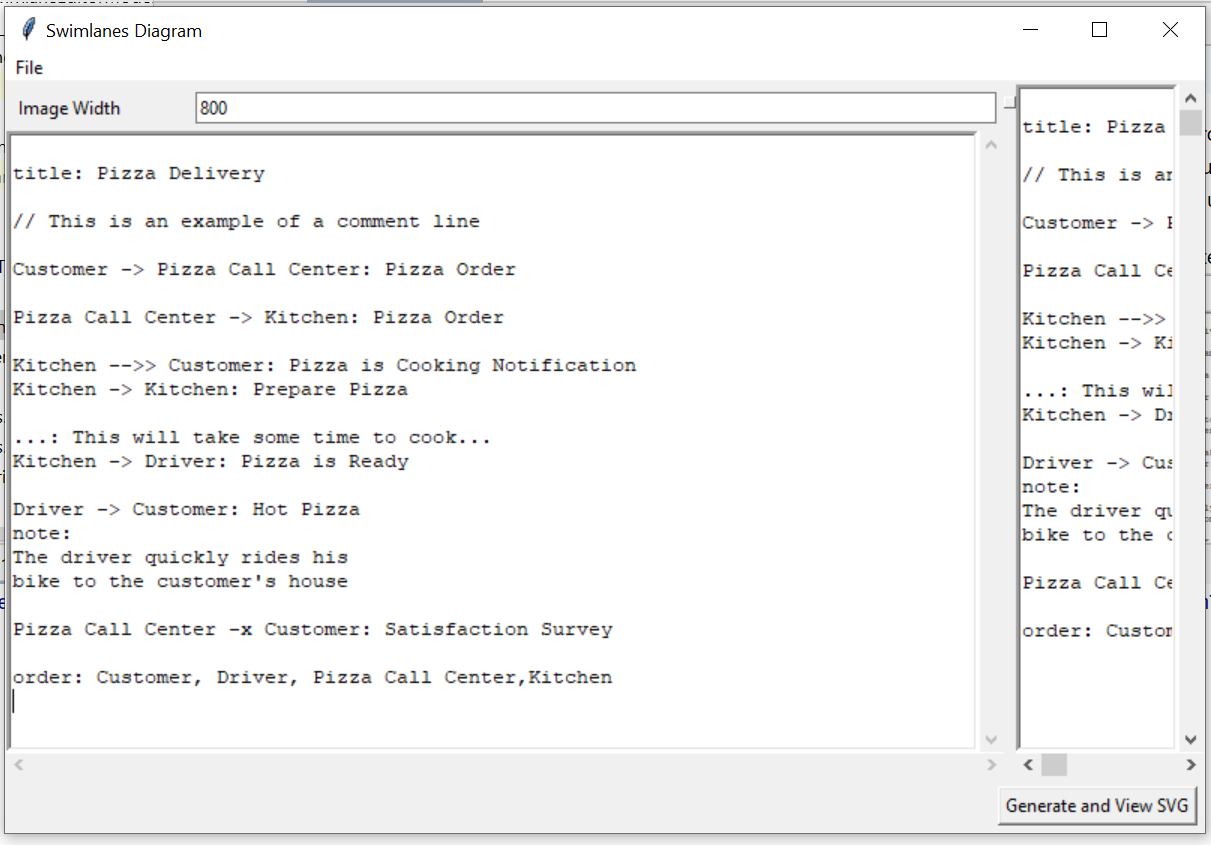
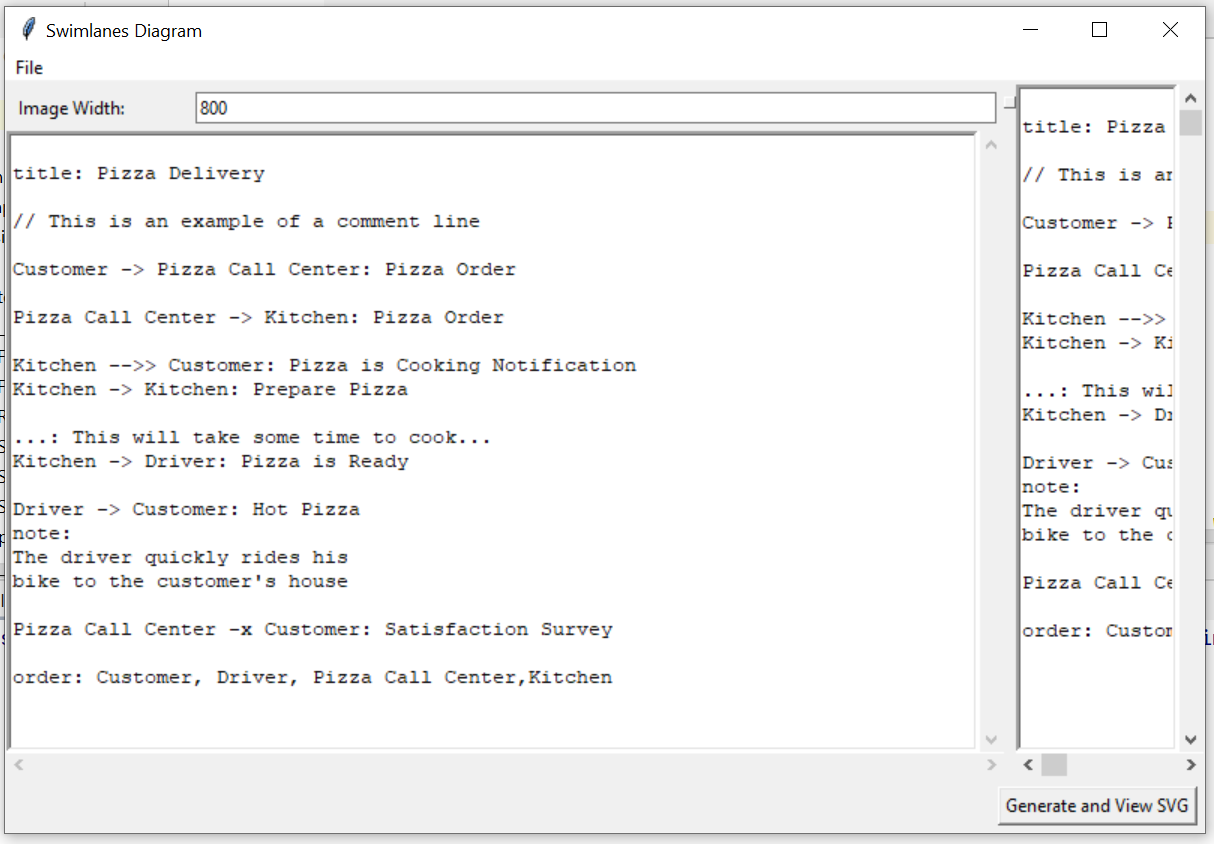
Added a colon after the "Image Width" label

diff --git a/diagram/ui/MainUI.py b/diagram/ui/MainUI.py
@@ -264,7 +264,7 @@ class MainUI:
         output_image_size_frame = Frame(editor_frame)
         output_image_size_frame.pack(fill=X)
 
-        output_image_width_label = Label(output_image_size_frame, text="Image Width", width=15, anchor='w')
+        output_image_width_label = Label(output_image_size_frame, text="Image Width:", width=15, anchor='w')
         output_image_width_label.pack(side=LEFT, padx=5, pady=5)
 
         self.output_image_width_entry = Entry(output_image_size_frame)
